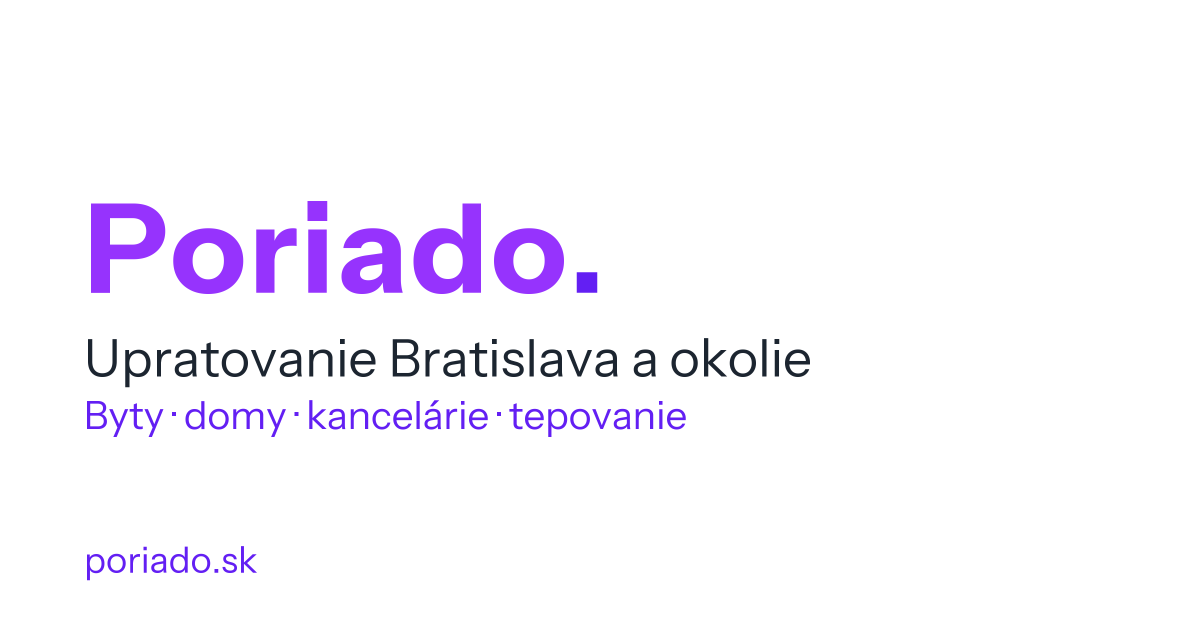
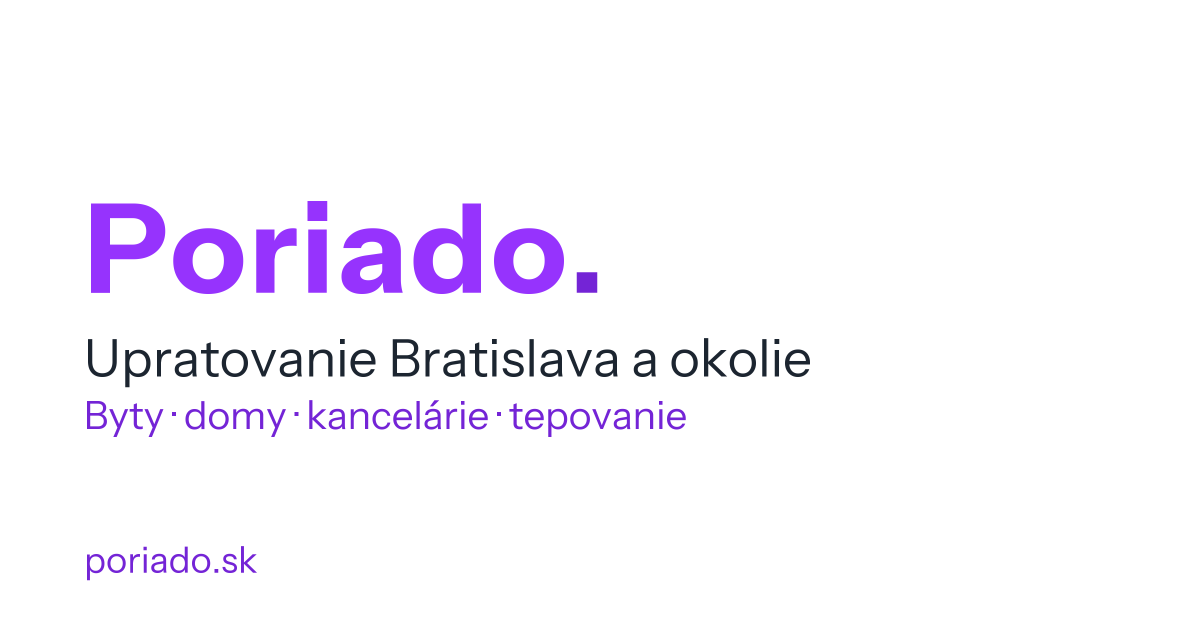
Recenzie dostali vlastnu plochu a og-image stratil staru modru
RECENZIE. Citaty lezali na domovskej priamo na svetlom pase, bez nadpisu
a bez ohranicenia — od okoliteho textu sa nelisili nicim, takze ich
citatel precital ako nasu vlastnu vetu, nie ako cudzi hlas. Spatna vazba
to pomenovala presne: "strasne to zanika".

Dostali preto vlastnu plochu #E6D1FF, nadpis "Nasi zakaznici povedali",
velku ozdobnu uvodzovku a pod citatom pas s hodnotenim z Google. Ten je
v presne tej istej podobe ako v uvode (.rev-bar), takze cislo aj pocet
obnovuje poriado-hodnotenie.js na oboch miestach naraz — skript bol na
viac vyskytov stavany od zaciatku. Parove uvodzovky v citatoch odisli,
nahradila ich ta velka ozdobna.

PRECO PRAVE #E6D1FF A NIE TMAVSI CELY PAS. Spatna vazba chcela, aby
pozadie nebolo biele. Cely svetly pas stmavit NEJDE: pri svetlosti 93 %
spadne --muted na 4,47 a ten je na tom pase na desiatkach miest.
Odmerane po dvoch bodoch: 95 % -> 4,83 este prejde, 93 % -> 4,47 uz nie.
Panel recenzii stmavit ide, lebo na nom ziadny drobny sivy text nie je —
nesie len --ink (11,00) a --navy (8,73). Preto ma aj .rev-count na
paneli vynimku: --muted by tam mal 4,14 a spadol by pod normu.

OG-IMAGE. Obsahoval poslednu starú modrofialovu #631FF3 — 7 771 pixelov
vratane mäkkych okrajov pismen. Z miery zmiesania s bielou sa dopocitalo
krytie a zlozilo nanovo s #7424D6, takze okraje zostali hladke. Pouzita
je ZAMERNE tmavsia fialova, nie hlavna: #9633FD ma na bielej 5,01 a
drobne riadky v obrazku by na tom stratili, kym #7424D6 ma 7,08, teda
[…]

diff --git a/index.html b/index.html
@@ -480,7 +480,34 @@
   }
 
   /* --- Google hodnotenie: jeden striedmy riadok pod hlavičkou --- */
-  .reviews{background:transparent;padding-top:0}
+  .reviews{background:transparent;padding-top:clamp(30px,3.6vw,46px)}
+
+  /* ═══════ PANEL S RECENZIAMI ═══════
+     Citáty predtým ležali priamo na svetlom páse, bez nadpisu a bez
+     ohraničenia. Od okolitého textu sa nelíšili ničím, takže ich
+     čitateľ prečítal ako našu vlastnú vetu, nie ako cudzí hlas.
+
+     Plocha je ZÁMERNE tmavšia než pás (#E6D1FF proti #EFE7FF v mieste,
+     kde leží). Nesie len --ink a --navy: 11,00 a 8,73. Kto sem pridá
+     --muted, musí farbu plochy zosvetliť — sivá má na nej 4,14 a pod
+     normou. Svetlý pás sám sa stmaviť nedá: pri L 93 % spadne --muted
+     na 4,47, a ten je na ňom na desiatkach miest. */
+  .rev-panel{max-width:860px;margin:0 auto;background:#E6D1FF;border-radius:20px;
+    padding:clamp(24px,3.2vw,38px) clamp(20px,3vw,46px) clamp(18px,2.4vw,28px);text-align:center}
+  .rev-panel .section-head{margin:0 auto 2px}
+  .rev-panel .section-head h2{margin-bottom:0}
+  /* Veľká úvodzovka je ozdoba, nie text — čítačka ju preskočí a z citátov
+     sa preto párové úvodzovky odstránili, aby neboli dvakrát. */
+  .rev-panel .uvodzovka{display:block;font-family:Georgia,'Times New Roman',serif;
+    font-size:clamp(3rem,5.4vw,4.2rem);line-height:.8;color:var(--blue);opacity:.32;
+    margin:6px 0 -4px;user-select:none}
+  .rev-panel .rev-citaty{padding:2px 0 14px}
+  /* Pocet recenzii je inde --muted, tu nie: siva ma na tejto ploche 4,14
+     a spadla by pod normu. --ink ma 11,00 a zostava druhotny tym, ze je
+     mensi, nie tym, ze je bledsi. */
+  .rev-panel .rev-count{color:var(--ink)}
+  .rev-panel .rev-citaty blockquote{font-size:1.08rem}
+  .rev-panel .rev-bar{border-bottom:0;padding:4px 0 0}
   .rev-bar{display:flex;align-items:baseline;justify-content:center;gap:6px 14px;flex-wrap:wrap;padding:18px 0;border-bottom:1px solid #E9E2F7;transition:.18s}
   .rev-num{font-size:1.3rem;font-weight:800;color:var(--navy);line-height:1;letter-spacing:-.5px}
   .rev-stars{color:var(--gold-text);letter-spacing:2px;font-size:.98rem;white-space:nowrap}
@@ -499,7 +526,8 @@
   .rev-citaty blockquote.on{opacity:1;visibility:visible}
   .rev-citaty cite{display:block;margin-top:10px;font-style:normal;font-weight:700;color:var(--navy);font-size:.86rem}
   @media(prefers-reduced-motion:reduce){.rev-citaty blockquote{transition:none}}
-  @media(max-width:640px){.rev-citaty{padding:16px 0 18px}.rev-citaty blockquote{font-size:.95rem}}
+  @media(max-width:640px){.rev-citaty{padding:16px 0 18px}.rev-citaty blockquote,
+    .rev-panel .rev-citaty blockquote{font-size:.98rem}}
 
   /* mobilna lepiaca lista */
   .mlista{position:fixed;left:0;right:0;bottom:0;z-index:150;background:rgba(255,255,255,.97);backdrop-filter:blur(10px);border-top:1px solid #E9E2F7;box-shadow:0 -6px 24px rgba(71,22,131,.14);padding:10px 14px;display:none;align-items:center;gap:12px;transform:translateY(115%);transition:transform .25s ease}
@@ -812,13 +840,25 @@
 <div class="pas">
 <section id="recenzie" class="reviews">
   <div class="wrap">
-
+    <div class="rev-panel">
+      <div class="section-head">
+        <div class="kicker">Recenzie</div>
+        <h2>Naši zákazníci povedali</h2>
+      </div>
+      <span class="uvodzovka" aria-hidden="true">„</span>
     <div class="rev-citaty" id="rev-citaty">
-      <blockquote class="on">„Žiadne zdĺhavé objednávanie ani zbytočné obhliadky vopred — jednoducho prišli, upratali a výsledok bol perfektný. Stala som sa ich pravidelnou zákazníčkou a firmu som odporučila aj u nás v práci."<cite>Soňa M.</cite></blockquote>
-      <blockquote>„Hľadala som spoľahlivú upratovaciu firmu a toto bola trefa do čierneho. Pani upratovačka odviedla neskutočne skvelú prácu — dala si záležať aj na detailoch. Je skvelý pocit vrátiť sa do dokonale čistého domova."<cite>Alexandra A.</cite></blockquote>
-      <blockquote>„S upratovaním som bol veľmi spokojný. Všetko bolo urobené precízne, dôkladne a podľa mojich predstáv. Oceňujem profesionálny prístup, príjemné vystupovanie a dôraz na detaily."<cite>Dan A.</cite></blockquote>
-      <blockquote>„Pomer cena a kvalita výborná. Poctivé umývanie a upratovanie, bola som veľmi spokojná."<cite>Natália F.</cite></blockquote>
-      <blockquote>„Profesionálny prístup, rýchla komunikácia a kvalitne odvedená práca."<cite>Marek R.</cite></blockquote>
+      <blockquote class="on">Žiadne zdĺhavé objednávanie ani zbytočné obhliadky vopred — jednoducho prišli, upratali a výsledok bol perfektný. Stala som sa ich pravidelnou zákazníčkou a firmu som odporučila aj u nás v práci.<cite>Soňa M.</cite></blockquote>
+      <blockquote>Hľadala som spoľahlivú upratovaciu firmu a toto bola trefa do čierneho. Pani upratovačka odviedla neskutočne skvelú prácu — dala si záležať aj na detailoch. Je skvelý pocit vrátiť sa do dokonale čistého domova.<cite>Alexandra A.</cite></blockquote>
+      <blockquote>S upratovaním som bol veľmi spokojný. Všetko bolo urobené precízne, dôkladne a podľa mojich predstáv. Oceňujem profesionálny prístup, príjemné vystupovanie a dôraz na detaily.<cite>Dan A.</cite></blockquote>
+      <blockquote>Pomer cena a kvalita výborná. Poctivé umývanie a upratovanie, bola som veľmi spokojná.<cite>Natália F.</cite></blockquote>
+      <blockquote>Profesionálny prístup, rýchla komunikácia a kvalitne odvedená práca.<cite>Marek R.</cite></blockquote>
+    </div>
+      <a class="rev-bar" href="https://www.google.com/maps?cid=11735417404303540434" target="_blank" rel="noopener" data-rating="5.0">
+        <span class="rev-num">5,0</span>
+        <span class="rev-stars" aria-hidden="true"></span>
+        <span class="rev-count">33 recenzií na Google</span>
+        <span class="rev-cta">Pozrieť →</span>
+      </a>
     </div>
   </div>
 </section>
